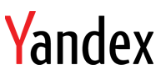
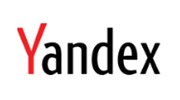
Added Yandex.

Changed region(s): [[0.0312, 0.125, 0.9688, 0.825]]

diff --git a/templates/inc/macros.html b/templates/inc/macros.html
@@ -5,8 +5,7 @@
     </ul>
     <ul class="sponsor sponsor-silver row-fluid">
       <li class="span6"><a href="/2012/sponsor-intuit"><img src="{{ theme_static('img/2012/sponsors/intuit.png') }}"></a></li>
-      <li class="span6"><img src="http://placehold.it/160x90&text=Coming+soon"></li>
-      {#<li class="span6"><a href="/2012/sponsor-yandex"><img src="{{ theme_static('img/2012/sponsors/yandex1.png') }}"></a></li>#}
+      <li class="span6"><a href="/2012/sponsor-yandex"><img src="{{ theme_static('img/2012/sponsors/yandex1.png') }}"></a></li>
     </ul>
   </div>
 {% endmacro %}
